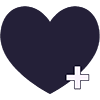
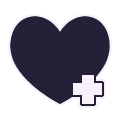
Refine Movie View

Changed region(s): [[0.0, 0.06, 1.0, 0.96]]

diff --git a/M-TV-Info/wwwroot/css/site - Copy.css b/M-TV-Info/wwwroot/css/site - Copy.css
@@ -70,7 +70,9 @@ body {
     background-color: #f8f0fb;
     color: #242038;
     font-family: 'Ubuntu', sans-serif;
+    position: relative
 }
+
 .footer {
     position: absolute;
     bottom: 0;
@@ -90,17 +92,6 @@ body {
     grid-auto-rows: minmax(auto, 100px);
     grid-gap: 10px;
 }
-.synopsis{
-    width: 90%;
-    margin-bottom: 20px;
-}
-.movieInfo {
-    display: flex;
-    flex-wrap: wrap;
-    flex-direction: column;
-    column-gap: 5px;
-}
-
 #col {
     display: flex;
     column-gap: 10px;
@@ -125,9 +116,19 @@ hr.line1 {
     border-radius: 2px;
 }
 /*MovieView*/
-.movie-container {
+body.movieView {
+    /* Margin bottom by footer height */
+    margin-bottom: 60px;
+    background-color: #f8f0fb;
+    color: #f8f0fb;
+    font-family: 'Ubuntu', sans-serif;
+    position: relative
+}
+#movie-container {
     display: flex;
     flex-wrap: wrap;
+    background: #242038;
+    padding: 50px;
 }
 
 .movieTop {
@@ -139,11 +140,25 @@ hr.line1 {
     grid-column: 1/span 2;
 }
 p.movieTitle {
-    font-size: 120%;
+    font-size: 200%;
+}
+.synopsis {
+    width: 90%;
+    margin-bottom: 20px;
+}
+
+.movieInfo {
+    display: flex;
+    flex-wrap: wrap;
+    flex-direction: column;
+    column-gap: 5px;
+    border-top: 2px solid #f8f0fb;
+    border-radius: 2px;
 }
 .movie-dets {
     display: flex;
     flex-wrap: wrap;
+    font-size: 118%;
 }
 .btnPoster {
     display: grid;
@@ -154,14 +169,15 @@ p.movieTitle {
     height: auto;
     grid-column: 1;
     grid-row: 1 /span 3;
+    box-shadow: 0 4px 8px 0 rgba(0,0,0,0.2);
 }
 .add-buttons {
     display: flex;
     align-self: end;
     grid-column: 1;
     grid-row: 3;
-    margin-left: 5%;
-    gap: 15%;
+    margin-left: 3%;
+    gap: 4%;
 }
 .addFav {
     width: 7%;
@@ -172,6 +188,47 @@ p.movieTitle {
     width: 10%;
     height: auto;
 }
+.addRev {
+    width: 7%;
+    height: auto;
+}
+
+.gradient-border {
+    --borderWidth: 10px;
+    background: #725AC1;
+    position: relative;
+    border-radius: var(--borderWidth);
+}
+
+    .gradient-border:after {
+        content: '';
+        position: absolute;
+        top: calc(-1 * var(--borderWidth));
+        left: calc(-1 * var(--borderWidth));
+        height: calc(100% + var(--borderWidth) * 2);
+        width: calc(100% + var(--borderWidth) * 2);
+        background: linear-gradient(60deg, #f79533, #f37055, #ef4e7b, #a166ab, #5073b8, #1098ad, #07b39b, #6fba82);
+        border-radius: calc(2 * var(--borderWidth));
+        z-index: -1;
+        animation: animatedgradient 3s ease alternate infinite;
+        background-size: 300% 300%;
+    }
+
+
+@keyframes animatedgradient {
+    0% {
+        background-position: 0% 50%;
+    }
+
+    50% {
+        background-position: 100% 50%;
+    }
+
+    100% {
+        background-position: 0% 50%;
+    }
+}
+
 /*Carousel*/
 #mycarousel{
     display:flex;
@@ -316,8 +373,25 @@ div.rating{
     flex-grow: 2;
 }
 
-body.bg1 {
+.bg1 {
     background-image: url("../assets/bg2.jpg");
     background-repeat: no-repeat;
     background-attachment: fixed;
+}
+
+.movieView::before {
+    content: "";
+    background: var(--url) no-repeat center center fixed;
+    background-repeat: no-repeat;
+    background-attachment: fixed;
+    position: fixed;
+    top: 0px;
+    right: 0px;
+    bottom: 0px;
+    left: 0px;
+    opacity: 30%;
+    filter: sepia(100%) hue-rotate(198deg);
+}
+* {
+    position: relative;
 }

diff --git a/M-TV-Info/wwwroot/js/favorites.js b/M-TV-Info/wwwroot/js/favorites.js
@@ -1,0 +1,17 @@
+$(document).ready(function () {
+    $('#addFav').click(function () {
+        $.ajax({
+            type: "POST", //HTTP POST Method
+            url: "Home/AddToFavourites", // Controller/View
+            data: { //Passing data
+                media_id: $('#movie_id').val(),
+                movie_title: $('#movie_title').val(),
+                movie_poster: $('#poster_path').val()
+            },
+            success: function (data) {
+                var Movie = $('#movie_title').val();
+                alert("Movie" + Movie + "has been added to favourites list");
+            }
+        });
+    });
+});

diff --git a/M-TV-Info/Models/TMDbModels/MovieModel.cs b/M-TV-Info/Models/TMDbModels/MovieModel.cs
@@ -15,6 +15,12 @@ namespace M_TV_Info.Models.TMDbModels
         public string iso_639_1 { get; set; }
         public string name { get; set; }
     }
+    
+    public class ProductionCompany
+    {
+        public string name { get; set; }
+
+    }
 
     public class MovieModel
     {
@@ -31,7 +37,7 @@ namespace M_TV_Info.Models.TMDbModels
         public string overview { get; set; }
         public double popularity { get; set; }
         public string poster_path { get; set; }
-        public List<object> production_companies { get; set; }
+        public List<ProductionCompany> production_companies { get; set; }
         public List<object> production_countries { get; set; }
         public string release_date { get; set; }
         public int revenue { get; set; }
